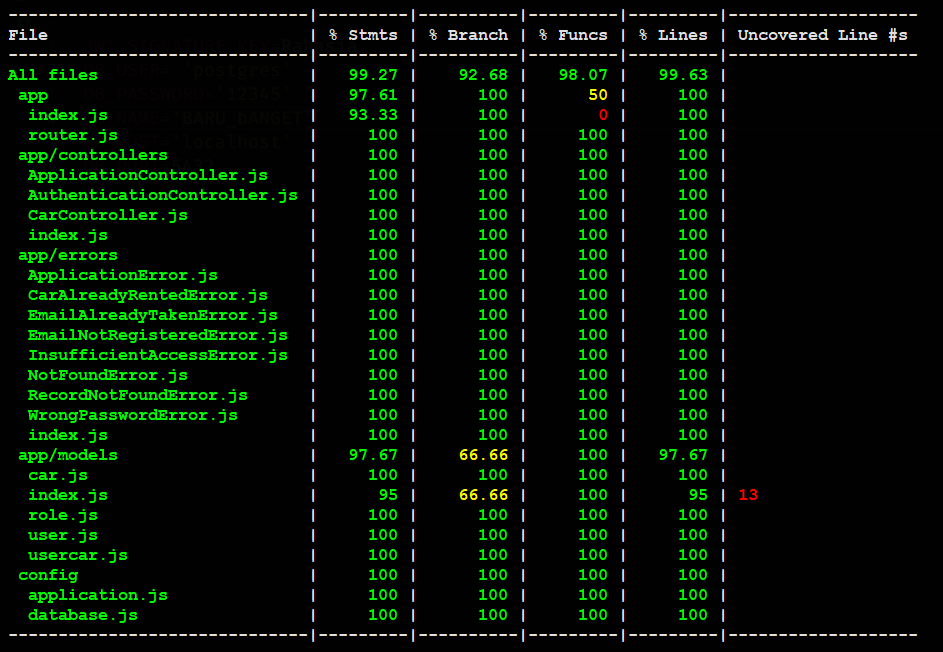
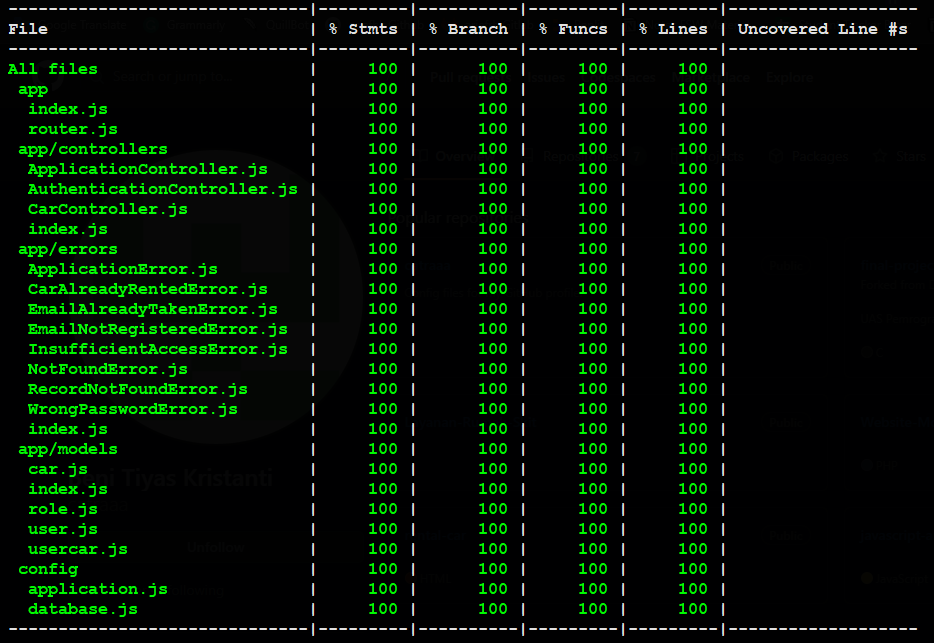
feat: add unit test for swagger and comment unused code

Changed region(s): [[0.0, 0.0, 0.9936, 0.9953]]

diff --git a/app/models/index.js b/app/models/index.js
@@ -1,34 +1,35 @@
 'use strict';
-
+require('dotenv').config();
 const fs = require('fs');
 const path = require('path');
 const Sequelize = require('sequelize');
 const basename = path.basename(__filename);
-const env = process.env.NODE_ENV || 'development';
+// const env = process.env.NODE_ENV || 'development';
+const env = process.env.NODE_ENV;
 const config = require(__dirname + '/../../config/database.js')[env];
 const db = {};
 
 let sequelize;
-if (config.use_env_variable) {
-  sequelize = new Sequelize(process.env[config.use_env_variable], config);
-} else {
-  sequelize = new Sequelize(config.database, config.username, config.password, config);
-}
+// Commented because we dont use it
+// if (config.use_env_variable) {
+//   sequelize = new Sequelize(process.env[config.use_env_variable], config);
+// } else {
+// }
+sequelize = new Sequelize(config.database, config.username, config.password, config);
 
-fs
-  .readdirSync(__dirname)
-  .filter(file => {
-    return (file.indexOf('.') !== 0) && (file !== basename) && (file.slice(-3) === '.js');
-  })
-  .forEach(file => {
-    const model = require(path.join(__dirname, file))(sequelize, Sequelize.DataTypes);
-    db[model.name] = model;
-  });
+fs.readdirSync(__dirname)
+    .filter((file) => {
+        return file.indexOf('.') !== 0 && file !== basename && file.slice(-3) === '.js';
+    })
+    .forEach((file) => {
+        const model = require(path.join(__dirname, file))(sequelize, Sequelize.DataTypes);
+        db[model.name] = model;
+    });
 
-Object.keys(db).forEach(modelName => {
-  if (db[modelName].associate) {
+Object.keys(db).forEach((modelName) => {
+    // Commented because we always call this
+    // if (db[modelName].associate) {}
     db[modelName].associate(db);
-  }
 });
 
 db.sequelize = sequelize;

diff --git a/app/controllers/AuthenticationController.js b/app/controllers/AuthenticationController.js
@@ -109,21 +109,11 @@ class AuthenticationController extends ApplicationController {
     handleGetUser = async (req, res) => {
         const user = await this.userModel.findByPk(req.user.id);
 
-        // const user = req.user;
         if (!user) {
-            // const err = new RecordNotFoundError(this.userModel.name);
             const err = new RecordNotFoundError(req.user.name);
             res.status(404).json(err);
             return;
         }
-
-        // const role = await this.roleModel.findByPk(user.roleId);
-
-        // if (!role) {
-        //     const err = new RecordNotFoundError(this.roleModel.name);
-        //     res.status(404).json(err);
-        //     return;
-        // }
 
         res.status(200).json(user);
     };

diff --git a/app/controllers/CarController.js b/app/controllers/CarController.js
@@ -11,8 +11,6 @@ class CarController extends ApplicationController {
     }
 
     handleListCars = async (req, res) => {
-        // const offset = this.getOffsetFromRequest(req);
-        // const limit = req.query.pageSize;
         const query = this.getListQueryFromRequest(req);
         const cars = await this.carModel.findAll(query);
         const carCount = await this.carModel.count({ where: query.where, include: query.include });
@@ -121,7 +119,6 @@ class CarController extends ApplicationController {
     };
 
     handleDeleteCar = async (req, res) => {
-        // const car = await this.carModel.destroy(req.params.id);
         await this.carModel.destroy({ where: { id: req.params.id } });
         res.status(204).end();
     };

diff --git a/__test__/config/application.spec.js b/__test__/config/application.spec.js
@@ -5,6 +5,6 @@ describe('check application format', () => {
         expect(MORGAN_FORMAT).toBe(':method :url :status :res[content-length] - :response-time ms');
     });
     it('it must have jwt signature key or error handling for that', () => {
-        expect(JWT_SIGNATURE_KEY).toBe(process.env.JWT_SIGNATURE_KEY || 'Rahasia');
+        expect(JWT_SIGNATURE_KEY).toBe('Rahasia');
     });
 });

diff --git a/__test__/api/Swagger.api.test.js b/__test__/api/Swagger.api.test.js
@@ -1,0 +1,10 @@
+require('dotenv').config();
+const request = require('supertest');
+const app = require('../../app');
+
+describe('check swagger docs', () => {
+    it('it must return a swagger docs', async () => {
+        let response = await request(app).get('/documentation.json');
+        expect(response.statusCode).toBe(200);
+    });
+});

diff --git a/config/application.js b/config/application.js
@@ -1,4 +1,4 @@
 module.exports = {
-  MORGAN_FORMAT: ':method :url :status :res[content-length] - :response-time ms',
-  JWT_SIGNATURE_KEY: process.env.JWT_SIGNATURE_KEY || "Rahasia",
-}
+    MORGAN_FORMAT: ':method :url :status :res[content-length] - :response-time ms',
+    JWT_SIGNATURE_KEY: process.env.JWT_SIGNATURE_KEY || 'Rahasia',
+};

diff --git a/config/database.js b/config/database.js
@@ -1,3 +1,4 @@
+require('dotenv').config();
 const { DB_USER, DB_PASSWORD, DB_NAME, DB_HOST, DB_PORT } = process.env;
 
 module.exports = {
